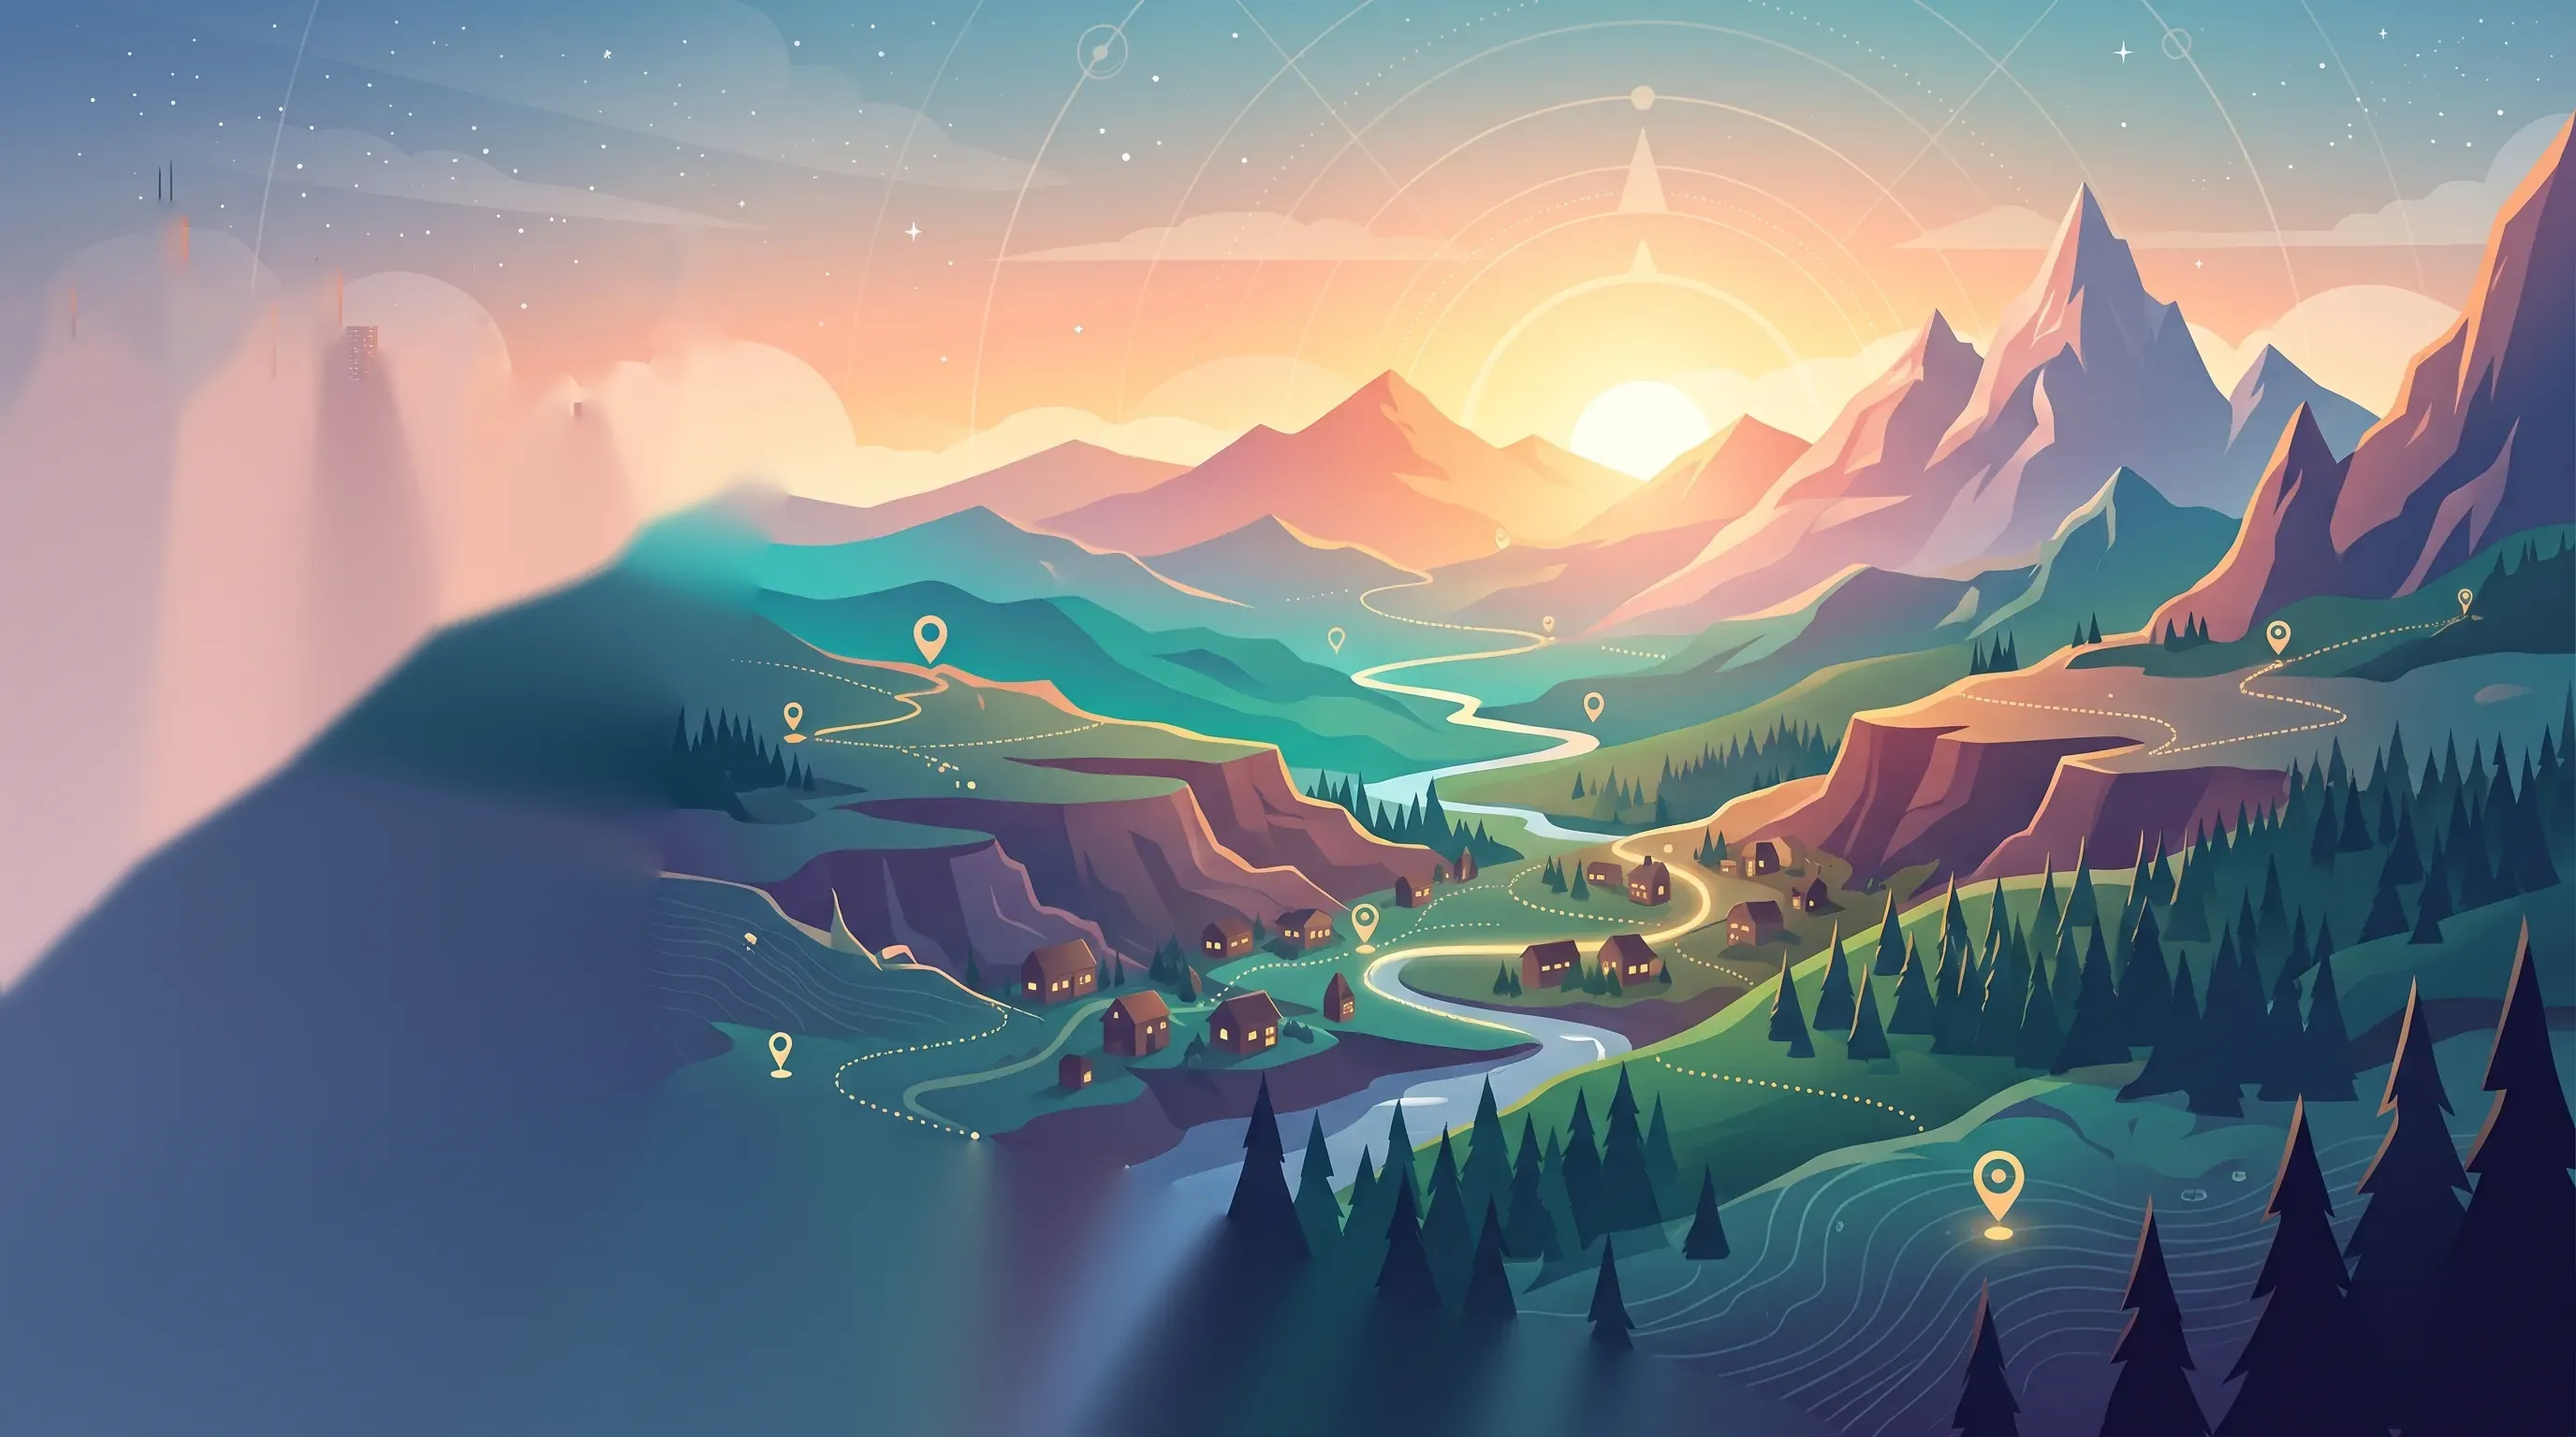
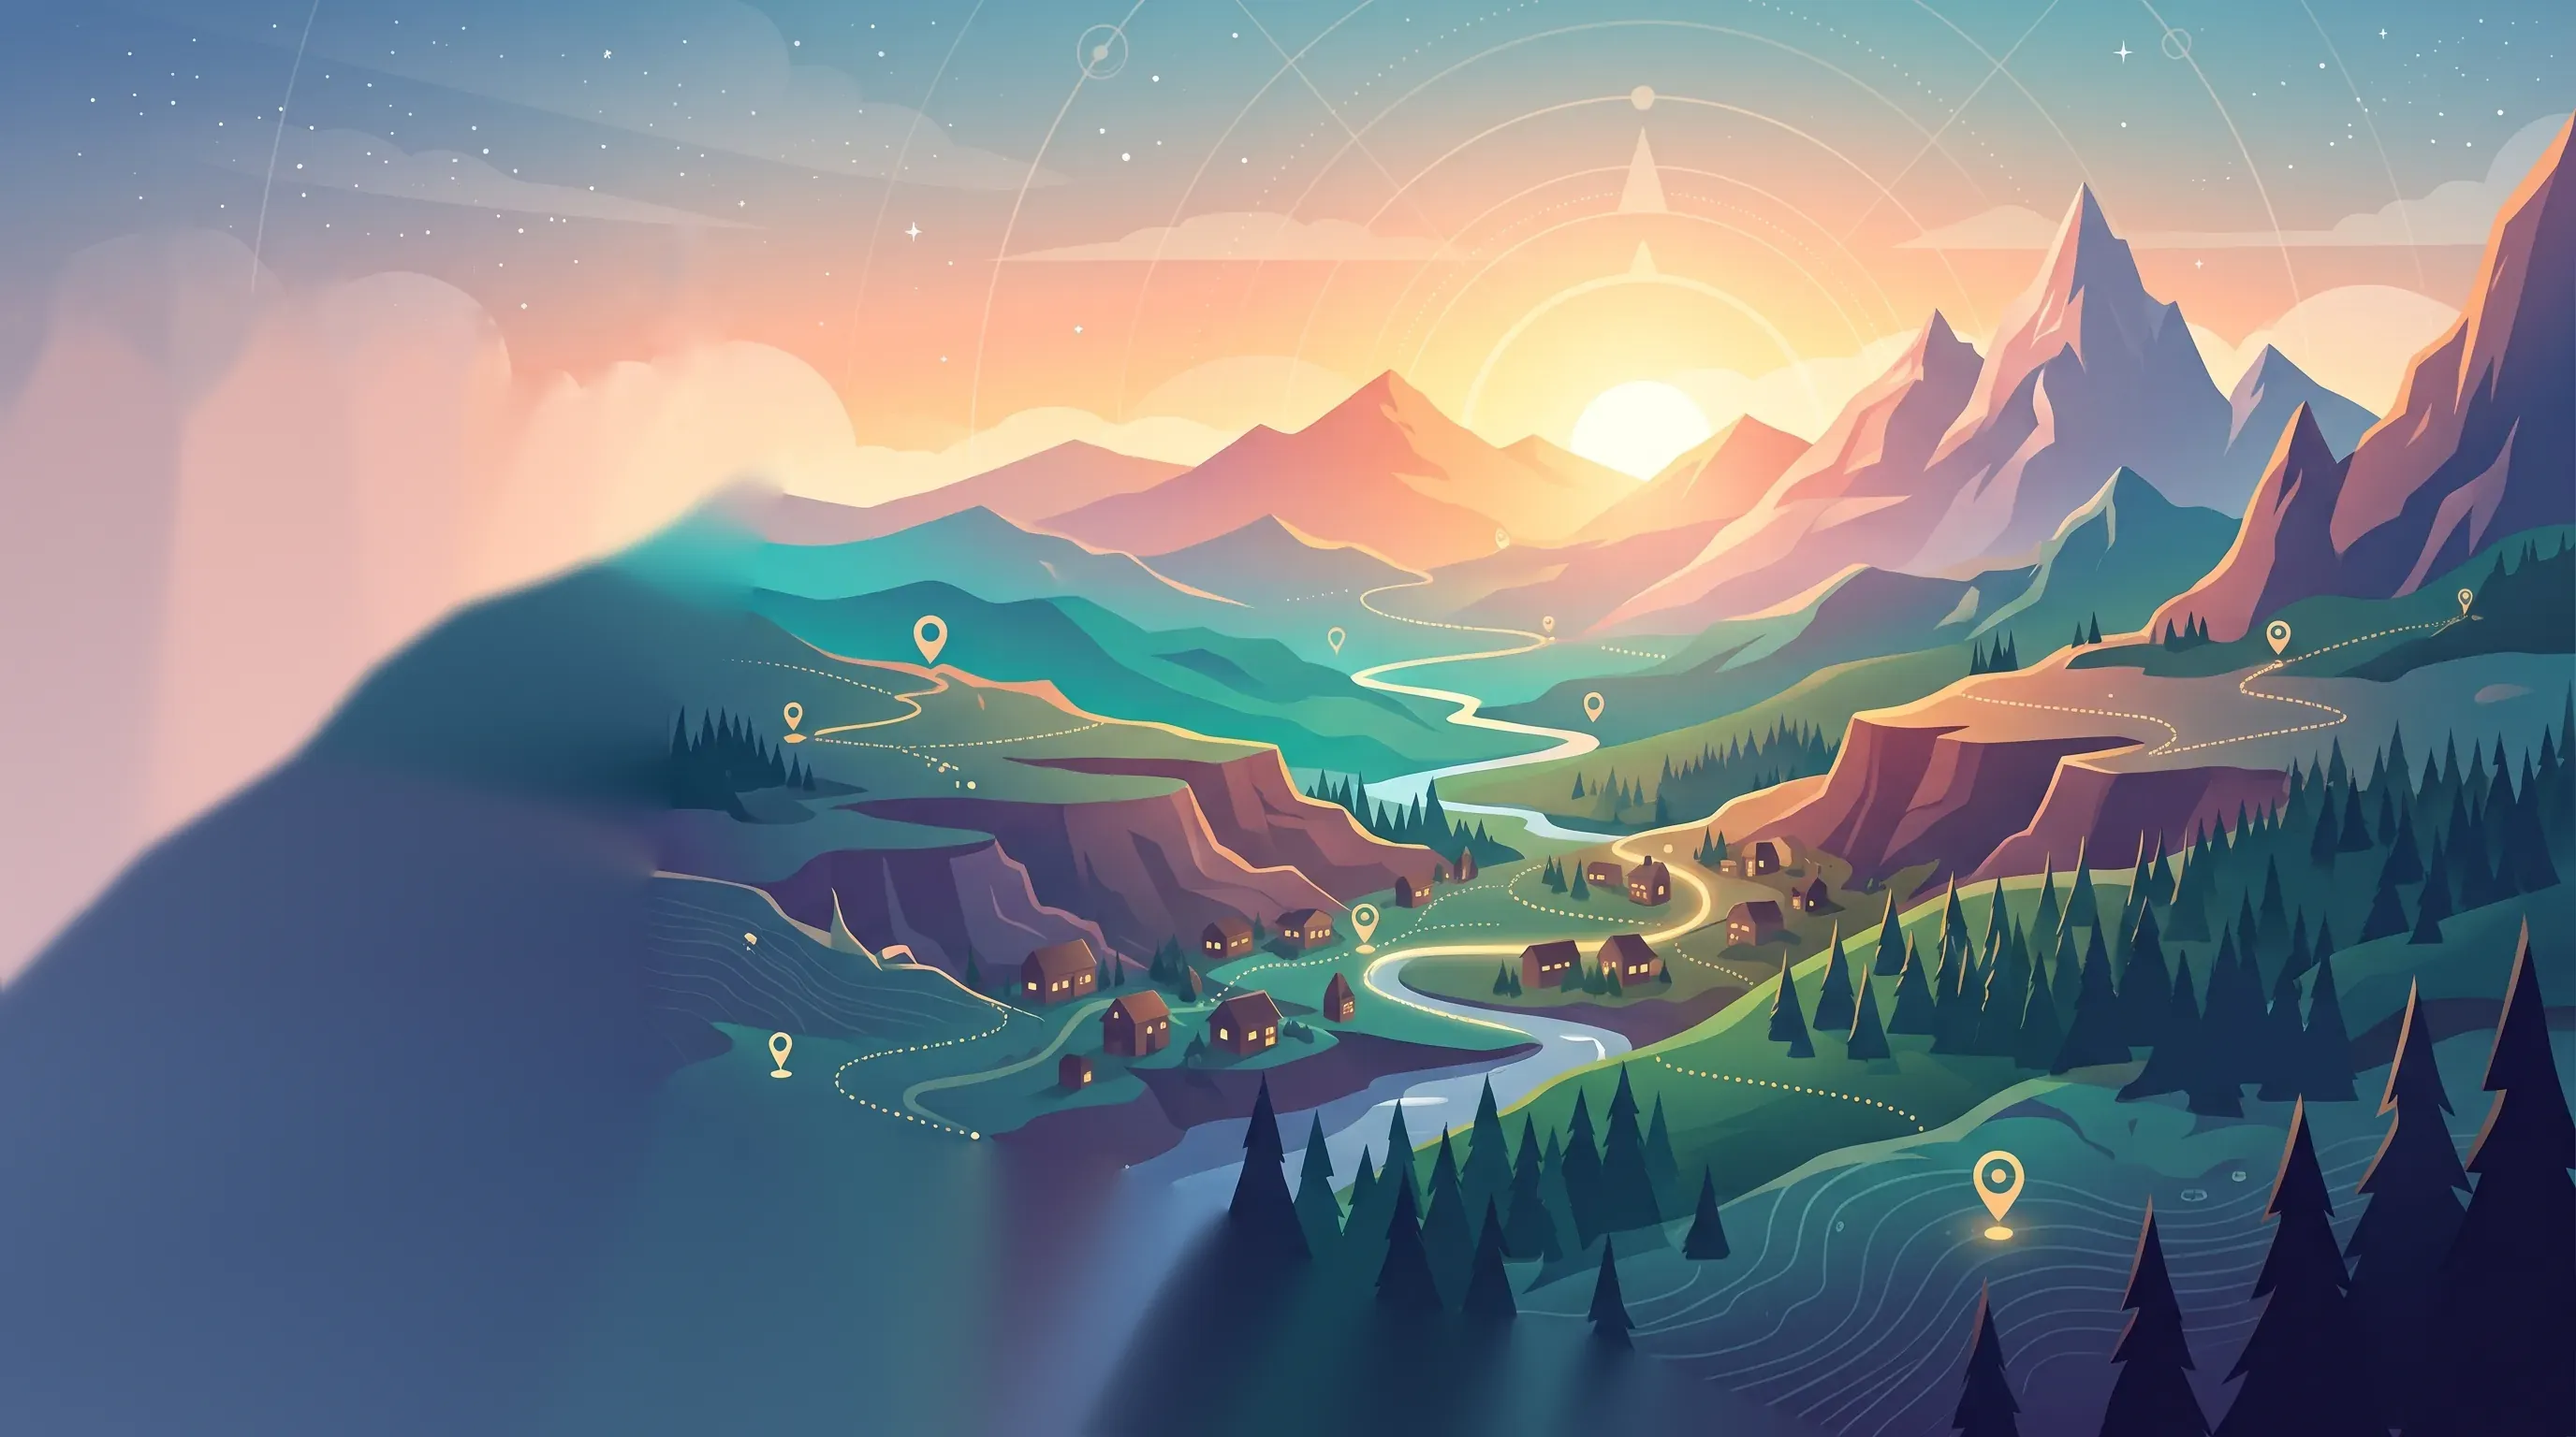
Cut the landing layers along the Figma vector
The front layer now follows a hand-drawn cut from Figma, kept as
source/landing/cut.svg, instead of the traced edge and colour masks.
make_layers.py renders that shape (with the gap between the hiker's
legs left out) and fills the background behind it as before.
Service worker cache bumped to v32.

Claude-Session: https://claude.ai/code/session_013teZ6PknzJCGKQiU9XAzWw

diff --git a/sw.js b/sw.js
@@ -1,7 +1,7 @@
 // Offline support for BT;DT. The page and its libraries are cached so the
 // app opens without a connection; map tiles are cached as you look at them.
 // Timeline files are never fetched or cached here: they are read straight from the device.
-var VERSION = 'btdt-v31';
+var VERSION = 'btdt-v32';
 var SHELL = ['./', './index.html', './manifest.webmanifest', './icon-192.png', './icon-512.png', './favicon.ico', './landing-1600.webp', './landing-bg-1600.webp', './landing-bg-2752.webp', './landing-fg-1600.webp', './landing-fg-2752.webp'];
 var LIBS = [
   'https://cdnjs.cloudflare.com/ajax/libs/leaflet/1.9.4/leaflet.min.js',

diff --git a/source/landing/make_layers.py b/source/landing/make_layers.py
@@ -1,104 +1,53 @@
 #!/usr/bin/env python3
 """Split the landing picture into two layers for the welcome page, in ../static/.
 
-  pip install numpy scipy opencv-python-headless pillow
+  pip install numpy opencv-python-headless pillow
   python3 source/landing/make_layers.py
 
 - landing-fg-*.webp: the cliff, the hiker, the bike and the city behind them, on transparency.
 - landing-bg-*.webp: everything else (sky, sun, valley), with the area behind the cliff filled in.
 
-On wide screens the two line up exactly as the original picture. On narrower ones the
-page slides the background further left than the cliff, so the hiker and the sun both fit.
-
-The cliff top is found as the dark shape inside a hand-drawn zone and the city is
-separated from the sky with GrabCut. Below the cliff top, the cut follows EDGE, traced by
-hand along the outside of the cliff's light rim and the ridge with the glowing trail. The fill behind the cliff is a plain inpaint: only its edges ever show.
+The cut is the shape in cut.svg, drawn by hand in Figma over landing-source.webp. On wide
+screens the two layers line up exactly as the original picture. On narrower ones the page
+slides the background further left than the cliff, so the hiker and the sun both fit.
+The fill behind the cliff is a plain inpaint: only its edges ever show.
 """
 import os
+import re
 import numpy as np
 import cv2
-from PIL import Image, ImageDraw, ImageFilter
-from scipy import ndimage
+from PIL import Image, ImageDraw
 
 HERE = os.path.dirname(os.path.abspath(__file__))
 OUT = os.path.join(HERE, '..', 'static')
 SRC = os.path.join(HERE, 'landing-source.webp')  # 2752 x 1536
-
-# Where the cliff can be (it is the dark part of this zone).
-ZONE = [(0, 415), (170, 415), (170, 470), (410, 470), (410, 385), (650, 385), (660, 440), (670, 215), (800, 215),
-        (800, 440), (870, 455), (870, 520), (812, 600), (732, 690), (714, 800), (710, 1000), (708, 1100),
-        (1000, 1170), (1300, 1270), (1560, 1536), (0, 1536)]
-# Surely cliff, whatever its brightness (the glowing trail, highlights).
-CORE = [(0, 600), (500, 580), (700, 520), (780, 560), (720, 700), (690, 1100), (1000, 1200), (1250, 1300), (1450, 1536), (0, 1536)]
-DARK = 72        # luminance below which a pixel in the zone is cliff
-CITY = (0, 120, 760, 600)  # box the skyline is in
-# The cliff's right edge, traced along the outside of its light rim: down the rock face to its
-# foot, then along the top of the dark ridge with the glowing trail to the bottom of the picture.
-# Everything left of this line and below the cliff top is in front; the valley right of it stays behind.
-EDGE = [(852, 470), (832, 530), (813, 580), (803, 620), (793, 660), (773, 690), (743, 720), (717, 750),
-        (707, 800), (714, 830), (714, 890), (692, 940), (672, 975), (682, 1040), (679, 1100), (671, 1180),
-        (700, 1185), (800, 1256), (920, 1218), (1100, 1232), (1180, 1250), (1250, 1275), (1290, 1295),
-        (1335, 1335), (1400, 1355), (1440, 1380), (1470, 1395), (1600, 1412), (1700, 1439), (1800, 1469),
-        (1900, 1504), (1962, 1536)]
-TOP = 478  # below this line everything left of EDGE is cliff, bike, trees or city
-# Two small towers of the skyline that peek out between the bike and the hiker.
-TOWERS = [[(628, 396), (656, 396), (656, 470), (628, 470)], [(661, 434), (686, 434), (686, 470), (661, 470)]]
+CUT = os.path.join(HERE, 'cut.svg')
+SS = 4  # supersampling for a smooth edge
 
 
-def poly_mask(size, pts):
-    m = Image.new('L', size, 0)
-    ImageDraw.Draw(m).polygon(pts, fill=255)
-    return np.array(m) > 0
-
-
-def cliff_mask(im):
-    h, w = im.shape[:2]
-    lum = im @ np.array([.2126, .7152, .0722])
-    fg = Image.fromarray((((lum < DARK) & poly_mask((w, h), ZONE)) * 255).astype('uint8'))
-    fg = np.array(fg.filter(ImageFilter.MaxFilter(9)).filter(ImageFilter.MinFilter(9))) > 0
-    fg |= poly_mask((w, h), CORE)
-    fg = ndimage.binary_fill_holes(fg)
-    lab, _ = ndimage.label(fg)
-    return lab == lab[1400, 100]
-
-
-def add_city(im, cliff):
-    x0, y0, x1, y1 = CITY
-    h, w = im.shape[:2]
-    crop = cv2.cvtColor(np.ascontiguousarray(im[y0:y1, x0:x1]), cv2.COLOR_RGB2BGR)
-    yy, xx = np.mgrid[y0:y1, x0:x1]
-    c = cliff[y0:y1, x0:x1]
-    m = np.full(crop.shape[:2], cv2.GC_PR_BGD, np.uint8)
-    m[(xx < 600) & (yy > 200)] = cv2.GC_PR_FGD
-    m[yy < 165] = cv2.GC_BGD                      # sky above the tallest spire
-    m[(xx > 705) & ~c & (yy < 440)] = cv2.GC_BGD  # sky right of the hiker
-    m[(xx < 560) & (yy > 445)] = cv2.GC_FGD       # the city's base
-    m[c] = cv2.GC_FGD
-    for t in TOWERS:
-        m[poly_mask((w, h), t)[y0:y1, x0:x1]] = cv2.GC_FGD
-    cv2.grabCut(crop, m, None, np.zeros((1, 65)), np.zeros((1, 65)), 8, cv2.GC_INIT_WITH_MASK)
-    out = cliff.copy()
-    out[y0:y1, x0:x1] |= np.isin(m, [cv2.GC_FGD, cv2.GC_PR_FGD])
-    # Between the bike and the hiker the sunlit cloud is as bright as the towers, so take the towers as drawn.
-    gap = np.zeros_like(out); gap[380:470, 600:700] = True
-    towers = np.zeros_like(out)
-    for t in TOWERS:
-        towers |= poly_mask((w, h), t)
-    out = np.where(gap, cliff | towers, out)
-    out = cv2.morphologyEx(out.astype(np.uint8), cv2.MORPH_OPEN, np.ones((3, 3), np.uint8)) > 0
-    lab, n = ndimage.label(out)
-    out = lab == 1 + int(np.argmax(ndimage.sum(out, lab, range(1, n + 1))))  # drop stray stars
-    return ndimage.binary_fill_holes(out)
+def cut_mask(size):
+    """Renders cut.svg's path (straight lines only, even-odd) to a 0-255 mask."""
+    svg = open(CUT).read()
+    tx, ty = map(float, re.search(r'translate\(([-\d.]+)[ ,]+([-\d.]+)\)', svg).groups())
+    d = re.search(r'\sd="([^"]+)"', svg).group(1)
+    w, h = size
+    big = Image.new('1', (w * SS, h * SS), 0)
+    draw = ImageDraw.Draw(big)
+    for sub in re.split(r'(?=M)', d):
+        nums = list(map(float, re.findall(r'-?\d+(?:\.\d+)?', sub)))
+        if len(nums) < 6:
+            continue
+        pts = [((x + tx) * SS, (y + ty) * SS) for x, y in zip(nums[0::2], nums[1::2])]
+        mask = Image.new('1', big.size, 0)
+        ImageDraw.Draw(mask).polygon(pts, fill=1)
+        big = Image.fromarray(np.logical_xor(np.array(big), np.array(mask)))  # even-odd
+    return np.array(big.convert('L').resize(size, Image.BOX))
 
 
 def main():
     im = np.array(Image.open(SRC).convert('RGB'))
     h, w = im.shape[:2]
-    shape = add_city(im, cliff_mask(im))
-    left = poly_mask((w, h), [(0, 0), (870, 0), (870, 440)] + EDGE + [(0, h)])
-    yy = np.arange(h)[:, None]
-    shape = (shape & left) | (left & (yy >= TOP))
-    alpha = cv2.GaussianBlur(shape.astype(np.float32) * 255, (0, 0), 1.0).astype(np.uint8)
+    alpha = cut_mask((w, h))
     # Background: fill the cliff's area (grown a little, so no rim is left) from its surroundings.
     grow = cv2.dilate((alpha > 8).astype(np.uint8) * 255, np.ones((15, 15), np.uint8))
     small = cv2.resize(im, (w // 2, h // 2), interpolation=cv2.INTER_AREA)
